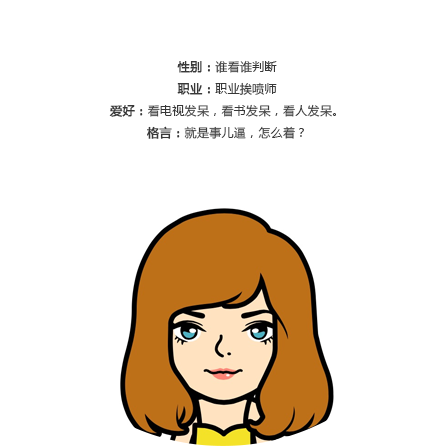
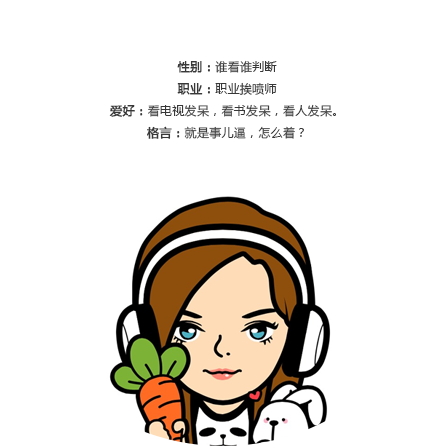
修改头像

Changed region(s): [[0.2332, 0.4372, 0.7578, 1.0]]

diff --git a/css/page.scss b/css/page.scss
@@ -257,29 +257,27 @@ $black-color:      #141414;
               position: absolute;
               left: 0;
               right: 0;
-              top: 40%;
+              top: 30%;
               color: white;
-              width: 900px;
+              width: 999px;
               height: 286px;
               margin: auto;
-          }
-          .page-profile-image{
           }
 
           .page-profile-one {
               @extend %page-profile-base;
-              bottom: 236px;
-              left: 132px;
+              bottom: 253px;
+              left: 150px;
           }
           .page-profile-two {
               @extend %page-profile-base;
-              bottom: 148px;
-              left: 418px;
+              bottom: 157px;
+              left: 470px;
           }
           .page-profile-three {
               @extend %page-profile-base;
-              bottom: 426px;
-              left: 646px;
+              bottom: 450px;
+              left: 720px;
           }
           @media screen and(max-width: 1254px){
               .page-profile-three {
@@ -293,7 +291,7 @@ $black-color:      #141414;
           .page-profile-four {
               @extend %page-profile-base;
               bottom: 194px;
-              left: 757px; 
+              left: 844px; 
           }
           .page-profile-text {
               display: none;
@@ -325,7 +323,7 @@ $black-color:      #141414;
           }
           .page-company {
               position: absolute;
-              top: 20%;
+              top: 15%;
               width: 950px;
               left: 0;
               right: 0;

diff --git a/_includes/navigation.html b/_includes/navigation.html
@@ -1,42 +1,42 @@
 {% if page.pageName == "home"  %}
 <div class="page-next">
-       <a href="about.html" > > </a>
+       <a href="about.html" ></a>
     </div>
     <div class="page-previous">
-        <a href="index.html"> < </a>
+        <a href="index.html"></a>
     </div>
 {% endif  %}    
 {% if page.pageName == "company_profile"  %}
 <div class="page-next">
-       <a href="team.html" > > </a>
+       <a href="team.html" ></a>
     </div>
     <div class="page-previous">
-        <a href="about.html"> < </a>
+        <a href="about.html"></a>
     </div>
 {% endif  %}    
 {% if page.pageName == "contact_us"  %}
 <div class="page-next">
-       <a href="home.html" > > </a>
+       <a href="home.html" > </a>
     </div>
     <div class="page-previous">
-        <a href="team.html"> < </a>
+        <a href="team.html"> </a>
     </div>
 {% endif  %}    
 {% if page.pageName == "team"  %}
 <div class="page-next">
-       <a href="contact_us.html" > > </a>
+       <a href="contact_us.html" > </a>
     </div>
     <div class="page-previous">
-        <a href="company_profile.html"> < </a>
+        <a href="company_profile.html"> </a>
     </div>
 {% endif  %}    
 {% if page.pageName == "about"  %}
 <div class="page-next">
-       <a href="company_profile.html" > > </a>
+       <a href="company_profile.html" > </a>
     </div>
     <div class="page-previous">
-        <a href="home.html"> < </a>
+        <a href="home.html"> </a>
     </div>
     {% endif  %}    
-    
+
 

diff --git a/_sass/_layout.scss b/_sass/_layout.scss
@@ -92,26 +92,17 @@
 
 %page-next-previous-base {
     position: fixed;
-    width: 60px; 
-    height: 60px;
+    width: 50px; 
+    height: 50px;
     z-index: 1;
     
-    background-color: $black-color-light;
-    border-radius: 60px;
-    text-align: center;
     top: 50%;
     line-height: 34px;
     a {
         display: block;
-        padding-top: 20%;
-        &:hover {
-             color: $white-color;
-        }
+        height: 50px;
+        width: 50px;
     }
-
-    &:hover {
-     background-color: $green-color;
- }
 }
 /**
  * 下一页
@@ -119,6 +110,10 @@
 .page-next {
     @extend %page-next-previous-base;
     left: 96%;
+    background-image:url(../images/right_black.png) ;
+    &:hover{
+    background-image:url(../images/right_green.png) ;
+    }
 }
 /**
  * 上一页
@@ -126,6 +121,10 @@
 .page-previous {
     @extend %page-next-previous-base;
     right: 96%;
+    background-image:url(../images/left_black.png) ;
+    &:hover{
+    background-image:url(../images/left_green.png) ;
+}
 }
 
 
